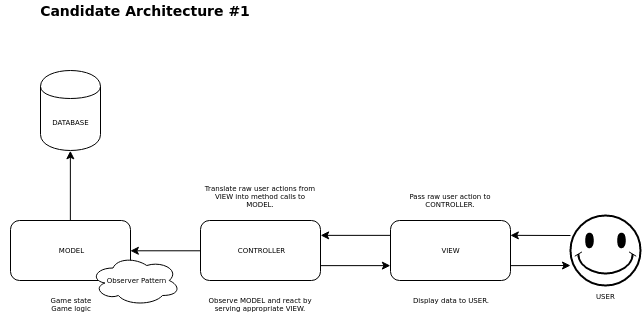
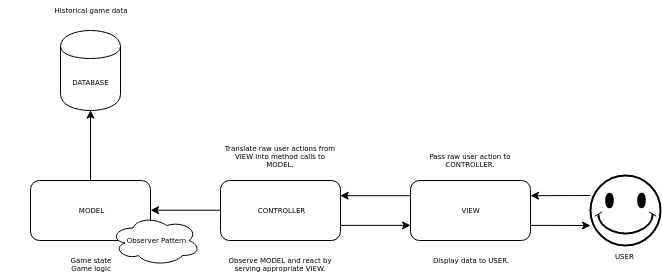
Latest additions.

diff --git a/project_docs/deliverables/team_report/tex/design.tex b/project_docs/deliverables/team_report/tex/design.tex
@@ -1,17 +1,102 @@
 \subsection{Design}
 
-A dedicated design meeting was held to agree on the overall technical approach.
+An initial design meeting was held to agree overall technical approach.
 Reference is made to Appendix \ref{appendix:design_meeting} for further details.
+Since this meeting, the design evolved as the team got more familiar with the design challenges.
 
-\todo[inline]{Some discussion needed.}
+This section communicates the final design.
+Where possible, the team implemented common design patterns in an effort to reduce coupling and to follow best-practices.
+Overall architecture makes use of the MVC pattern, applied per Figure \ref{figure:system_architecture}:
 
 \begin{center}
-	\includegraphics[scale=0.18, angle=90]{final_uml_full}
-	\captionof{figure}{Full System UML.}
+	\includegraphics[scale=0.7]{system_architecture}
+	\captionof{figure}{System Architecture}
+	\label{figure:system_architecture}
 \end{center}
 
-\subsection{Command Line Mode}
-\todo[inline]{Some discussion needed.}
+The model and database components were designed to be used by either the command line or online modes of the system:
 
-\subsection{Online Mode}
-\todo[inline]{Some discussion needed.}
+\begin{itemize}
+	\item Model (\texttt{package model}, see Figure \ref{figure:model_uml} for UML):
+	\begin{itemize}
+		\item Encapsulate game actions and game state.
+		\item Be agnostic to the implementation of other parts of the system. Apply the Observer Pattern to eliminate any need for the model to be aware of external components, reducing coupling. Passively notify interested parties of changes to game state.
+		\item Provide a set of public methods to trigger key game actions (Facade Pattern) (\texttt{GameAPI.java}).
+		\item Provide a Immutable Parameter Object to extract a snapshot of key game data from within the model, allowing a single ``info'' object to passed to other parts of the system (\texttt{GameInfo.java}).
+	\end{itemize}
+
+	\item Database (\texttt{package persistence}, see Figure \ref{figure:persistence_uml} for UML):
+	\begin{itemize}
+		\item Provide a set of public methods to write key game information to a persistent database.
+	\end{itemize}
+\end{itemize}
+
+A specific controller and views were created for command line mode:
+
+\begin{itemize}
+	\item Controller (\texttt{package commandline}, see Figure \ref{figure:commandline_uml} for UML):
+	\begin{itemize}
+		\item Provide game management and logical flow, specific to the command line implementation .
+		\item Serve views to user, and trigger necessary game actions.
+		\item Trigger game events based on game state (via Observer).
+		\item Limit coupling with model by calling \texttt{GameAPI.java} methods only.
+	\end{itemize}
+
+	\item View(s) (\texttt{package commandline}, see Figure \ref{figure:commandline_uml} for UML):
+	\begin{itemize}
+		\item Provide command line output and facilities to retrieve user input, specific to the command line implementation.
+		\item Limit coupling by communicating only with the controller.
+	\end{itemize}
+\end{itemize}
+
+For online mode:
+
+\begin{itemize}
+	\item Controller (\texttt{package online}), see Figure \ref{figure:online_uml} for UML):
+	\begin{itemize}
+		\item Provide game management and logical flow, specific to the online implementation.
+		\item Provide APIs for the user to interact with the Game logic via the web page views.
+		\item Trigger game events based on user interaction via web pages (i.e. API calls).
+		\item Limit coupling with model by calling \texttt{GameAPI.java} methods only.
+	\end{itemize}
+
+	\item View(s) (\texttt{package online}), see Figure \ref{figure:online_uml} for UML):
+	\begin{itemize}
+		\item Provide output and receive user input via (.ftl) web pages specific for the online implementation.
+		\item Coupling limited by freeing the web pages from interacting with the Game logic.
+	\end{itemize}
+\end{itemize}
+
+The interaction between all packages is captured in Figure \ref{figure:full_uml}. 
+The native image is also provided with the team .zip submission for readability.
+
+\newpage
+\begin{center}
+	\includegraphics[scale=0.29]{final_UML_model_package}
+	\captionof{figure}{Model Package UML (Package Visibility)}
+	\label{figure:model_uml}
+\end{center}
+
+\begin{center}
+	\includegraphics[scale=0.4]{final_UML_persistence_package}
+	\captionof{figure}{Persistence Package UML (Package Visibility)}
+	\label{figure:persistence_uml}
+\end{center}
+
+\begin{center}
+	\includegraphics[width=\textwidth]{final_UML_commandline_package}
+	\captionof{figure}{Commandline Package UML (Package Visibility)}
+	\label{figure:commandline_uml}
+\end{center}
+
+\begin{center}
+	\includegraphics[width=\textwidth]{final_UML_online_package}
+	\captionof{figure}{Online Package UML (Package Visibility)}
+	\label{figure:online_uml}
+\end{center}
+
+\begin{center}
+	\includegraphics[scale=0.19, angle=90]{final_uml_full}
+	\captionof{figure}{Full System UML.}
+	\label{figure:full_uml}
+\end{center}

diff --git a/project_docs/deliverables/team_report/tex/minutes_of_meeting.tex b/project_docs/deliverables/team_report/tex/minutes_of_meeting.tex
@@ -201,7 +201,8 @@ Torquil MacLeod [TM]}
 
 	\momitem
 	{4}
-	{CB provided detailed UML covering full system (Figure \ref{figure:initial_uml}). 
+	{CB provided detailed UML covering model and command line mode (Figures \ref{figure:initial_uml_system}, \ref{figure:initial_uml_commandline_package}, \ref{figure:initial_uml_model_package}, \ref{figure:initial_uml_persistence_package}).
+	JD provided detailed UML covering online mode (Figure \ref{figure:initial_uml_online_package})
 	It is understood that online mode can hook into key Game functionality via game's available public methods, and online components can be notified of game state changes via the Observer mechanism. 
 	The approach as depicted was agreed to be a reasonable solution, and was selected as a basis for overall design.}
 	{INFO}
@@ -222,15 +223,39 @@ Torquil MacLeod [TM]}
 \end{momitems}
 
 \begin{center}
-	\includegraphics[scale=0.7]{initial_architecture}
+	\includegraphics[width=\textwidth]{initial_architecture}
 	\captionof{figure}{Proposed Architecture}
 	\label{figure:initial_architecture}
 \end{center}
 
 \begin{center}
-	\missingfigure{Include UML with Joe's updates.}
-	\captionof{figure}{Proposed UML}
-	\label{figure:initial_uml}
+	\includegraphics[width=\textwidth]{initial_uml_system}
+	\captionof{figure}{Proposed System UML}
+	\label{figure:initial_uml_system}
+\end{center}
+
+\begin{center}
+	\includegraphics[width=\textwidth]{initial_uml_commandline_package}
+	\captionof{figure}{Proposed Command Line Package}
+	\label{figure:initial_uml_commandline_package}
+\end{center}
+
+\begin{center}
+	\includegraphics[width=\textwidth]{initial_uml_model_package}
+	\captionof{figure}{Proposed Model Package}
+	\label{figure:initial_uml_model_package}
+\end{center}
+
+\begin{center}
+	\includegraphics[scale=0.7]{initial_uml_persistence_package}
+	\captionof{figure}{Proposed Persistence Package}
+	\label{figure:initial_uml_persistence_package}
+\end{center}
+
+\begin{center}
+	\includegraphics[width=\textwidth]{initial_uml_online_package}
+	\captionof{figure}{Proposed Online Package}
+	\label{figure:initial_uml_online_package}
 \end{center}
 
 \begin{center}
@@ -416,7 +441,7 @@ Torquil MacLeod [TM]}
 
 	\momitem
 	{2}
-	{All stories were completed in-line with their expected durations.}
+	{All stories were completed in-line with their expected durations. For latest project plan see \ref{figure:final_project_plan}.}
 	{INFO}
 	{INFO}
 	

diff --git a/project_docs/deliverables/team_report/tex/sprints.tex b/project_docs/deliverables/team_report/tex/sprints.tex
@@ -5,18 +5,37 @@
 \begin{center}
 	\includegraphics[scale=0.5]{burndown_1}
 	\captionof{figure}{Burndown Chart Sprint \#1}
+	\label{figure:burndown_1}
 \end{center}
+
+The upfront design work paid dividends during Sprint \#1, resulting in steady progress during implementation.
+As noted in Appendix \ref{appendix:sprint2_planning_meeting}, some stories took longer than anticipated to complete, however the team stepped-up efforts to complete all stories within the iteration.
 
 \subsubsection{Sprint \#2}
 
 \begin{center}
 	\includegraphics[scale=0.5]{burndown_2}
 	\captionof{figure}{Burndown Chart Sprint \#2}
+	\label{figure:burndown_2}
 \end{center}
+
+Sprint \#2 proved to be a challenge, due to the team's overall lack of experience with the online technologies, and the impact of some early decision decisions.
+During Sprint \#1, the model (specifically the \texttt{Game} class, was implemented in a way that relied on a synchronous flow of events, with most game logic being contained in a single method. When the Observable \texttt{notify()} method was called at key stages to change \texttt{gameState}, execution was blocked, passing execution over to the controller where the event was handled. Upon completion of the controller flow, execution was handed back to the model where the logic continued.
+
+However, due to the asyncronous, stateless nature of the online technologies, this blocking mechanism was no longer available.
+The solution was to refactor the model to create individual methods for each segment of game logic, which would be triggered by the controller as needed.
+The impact of this was that most stories could not be completed within the iteration, and a third sprint had to be scheduled.
+
+Appendix \ref{appendix:sprint3_planning_meeting} has further details.
 
 \subsubsection{Sprint \#3}
 
 \begin{center}
 	\includegraphics[scale=0.5]{burndown_3}
 	\captionof{figure}{Burndown Chart Sprint \#3}
+	\label{figure:burndown_3}
 \end{center}
+
+Sprint \#3 successfully solved the issues encountered previously, and the project came to a functional conclusion at the end of the iteration.
+
+Appendix \ref{appendix:final_sprint_meeting} has further details.

diff --git a/project_docs/deliverables/team_report/tex/final_user_stories.tex b/project_docs/deliverables/team_report/tex/final_user_stories.tex
@@ -2,11 +2,6 @@
 \section{Final User Stories}
 \label{appendix:user_stories}
 
-\todo[inline]{Check validity of each story.}
-\todo[inline]{Check validity of each test.}
-\todo[inline]{Check duration of each story.}
-\todo[inline]{Allocate actual duration to each story.}
-
 \subsection{Sprint \#1: Command Line Mode} 
 \label{appendix:user_stories_command_line}
 \bigskip
@@ -42,11 +37,6 @@ As a Human Player, I want to start a new game, so that the first active player c
 
 \begin{card}{blue}
 {S0020}{}{}{}
-Bob is asked to select the number of AI opponents he would like to play against (max 4). 
-He does this by typing a number and pressing enter. 
-Acceptance Tests: Test numbers 1 – 4. 
-Test numbers other than 1 – 4 inclusive. 
-Test empty string. 
 Test that deck is loaded. 
 Test that deck is shuffled. 
 Test that correct number of players are created. 
